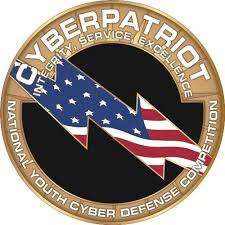
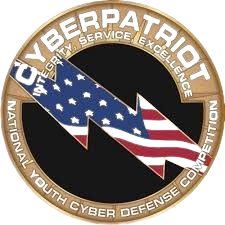
edit music, remove white bg from images

diff --git a/index.html b/index.html
@@ -6,10 +6,19 @@
         <link rel="stylesheet" href="styles.css" />
     </head>
     <body>
-        <iframe src="music_player.html" id="music" allow="autoplay"></iframe>
         <div id="contain">
+        <div class="bgm">
         <h1>Kaden Wu</h1>
+        <audio id="bg-music" src="piano.mp3" loop controls></audio>
+        </div>
         <h2>"Stay hungry, stay foolish." - Steve Jobs</h2>
+        
+       
+        <iframe src="https://www.youtube.com/embed/fLvJ8VdHLA0"
+                title="YT vid"
+                frameborder="0"
+                allowfullscreen>
+        </iframe>
         <h3>About Me</h3>
         <img src="images/nlp.png" class="float-right-image">
 <p>Hi! I’m Kaden, and I’m currently 15 years old. I am a sophomore at Canyon Crest Academy. I do a variety of activities, such as playing basketball, piano, and trombone. I do many, many school extracurricular activities. Some of the most prolific ones are CyberPatriot, math team, and robotics. I am also an AI enthusiast, particularly in <a href="https://www.ibm.com/think/topics/natural-language-processing">NLP</a>. Additionally, I volunteer as a peer tutor, teaching math at Casa De Amistad. </p>

diff --git a/styles.css b/styles.css
@@ -10,7 +10,7 @@
   height: 150px;
 }
 #contain{
-  width:auto;
+  width:1100px;
   margin: auto;
   padding: 8px;
 }
@@ -75,6 +75,19 @@ a:hover{
     width: 95%; 
   }
 }
-#music{
-  display:none;
+
+@media (max-width: 800px) {
+  #bg-music {
+    display: none;
+  }
+}
+.bgm {
+  position: relative;
+  text-align: center;
+}
+
+#bg-music {
+  position: absolute;
+  top: 0;
+  right: 0;
 }
